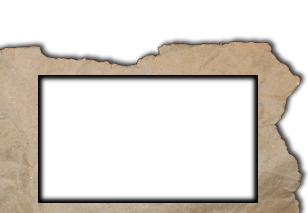
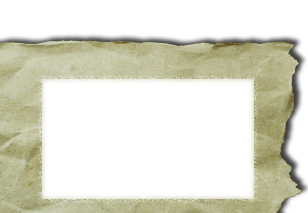
enhance minimap with map background and semi-transparent tiles
git-svn-id: https://svn.freecol.org/svnroot/freecol/freecol/trunk@7448 04c0ca24-bb37-0410-963f-fb4f4e597ea7

Changed region(s): [[0.0, 0.1408, 1.0, 1.0]]

diff --git a/src/net/sf/freecol/client/gui/panel/MiniMap.java b/src/net/sf/freecol/client/gui/panel/MiniMap.java
@@ -211,7 +211,8 @@ public final class MiniMap extends JPanel implements MouseInputListener {
         if (freeColClient.getGame() == null
             || freeColClient.getGame().getMap() == null) {
             return;
-        }        
+        }
+        Image back = ResourceManager.getImage("MiniMap.back");
         Image skin = ResourceManager.getImage("MiniMap.skin");
         
     	Color newBackground = ResourceManager.getColor("miniMapBackground.color");
@@ -220,6 +221,7 @@ public final class MiniMap extends JPanel implements MouseInputListener {
         if (skin == null) {
             paintMap(graphics, getWidth(), getHeight());
         } else {
+            graphics.drawImage(back, 0, 0, null);
             graphics.translate(mapWindow.x, mapWindow.y);
             paintMap(graphics, MAP_WIDTH, MAP_HEIGHT);
             graphics.translate(-mapWindow.x, -mapWindow.y);
@@ -250,8 +252,8 @@ public final class MiniMap extends JPanel implements MouseInputListener {
         g.setRenderingHint(RenderingHints.KEY_RENDERING,
                            RenderingHints.VALUE_RENDER_QUALITY);
  	  	
-        /* Fill the rectangle with solid black */
-        g.setColor(Color.BLACK);
+        /* Fill the rectangle with background color */
+        g.setColor(ResourceManager.getColor("miniMapBackground.color"));
         g.fillRect(0, 0, width, height);
 
         if (freeColClient.getGUI() == null || freeColClient.getGUI().getFocus() == null) {
@@ -381,7 +383,7 @@ public final class MiniMap extends JPanel implements MouseInputListener {
                 miniRectY = miniRectHeight / 2;
             }
 
-            g.setColor(Color.WHITE);
+            g.setColor(ResourceManager.getColor("miniMapBorder.color"));
             /* Use Math max and min to prevent the rect from being larger than the minimap. */
             int miniRectMaxX = Math.max(miniRectX - miniRectWidth / 2, 0);
             int miniRectMaxY = Math.max(miniRectY - miniRectHeight / 2, 0);
@@ -394,11 +396,11 @@ public final class MiniMap extends JPanel implements MouseInputListener {
             if(miniRectMaxY + miniRectMinHeight > height - 1) {
                 miniRectMaxY = height - miniRectMinHeight - 1;
             }
-            /* Draw the white rect. */
+            /* Draw the rect. */
             g.drawRect(miniRectMaxX, miniRectMaxY, miniRectMinWidth, miniRectMinHeight);
-            /* Draw an additional white rect, if the whole map is shown on the minimap */
+            /* Draw an additional rect, if the whole map is shown on the minimap */
             if (adjustX > 0 && adjustY > 0) {
-                g.setColor(Color.WHITE);
+                g.setColor(ResourceManager.getColor("miniMapBorder.color"));
                 g.drawRect(0, 0, width - 1, height - 1);
             }
         }

diff --git a/src/net/sf/freecol/common/resources/ColorResource.java b/src/net/sf/freecol/common/resources/ColorResource.java
@@ -71,7 +71,11 @@ public class ColorResource extends Resource {
      */
     public static Color getColor(String colorName) {
         if (colorName.startsWith("0x") || colorName.startsWith("0X")) {
-            return new Color(Integer.decode(colorName));
+            boolean hasAlpha = false;
+            if (colorName.length()>8) {
+               hasAlpha = true;
+            }
+            return new Color(Integer.decode(colorName),hasAlpha);
         } else {
             try {
                 Field field = Color.class.getField(colorName);
